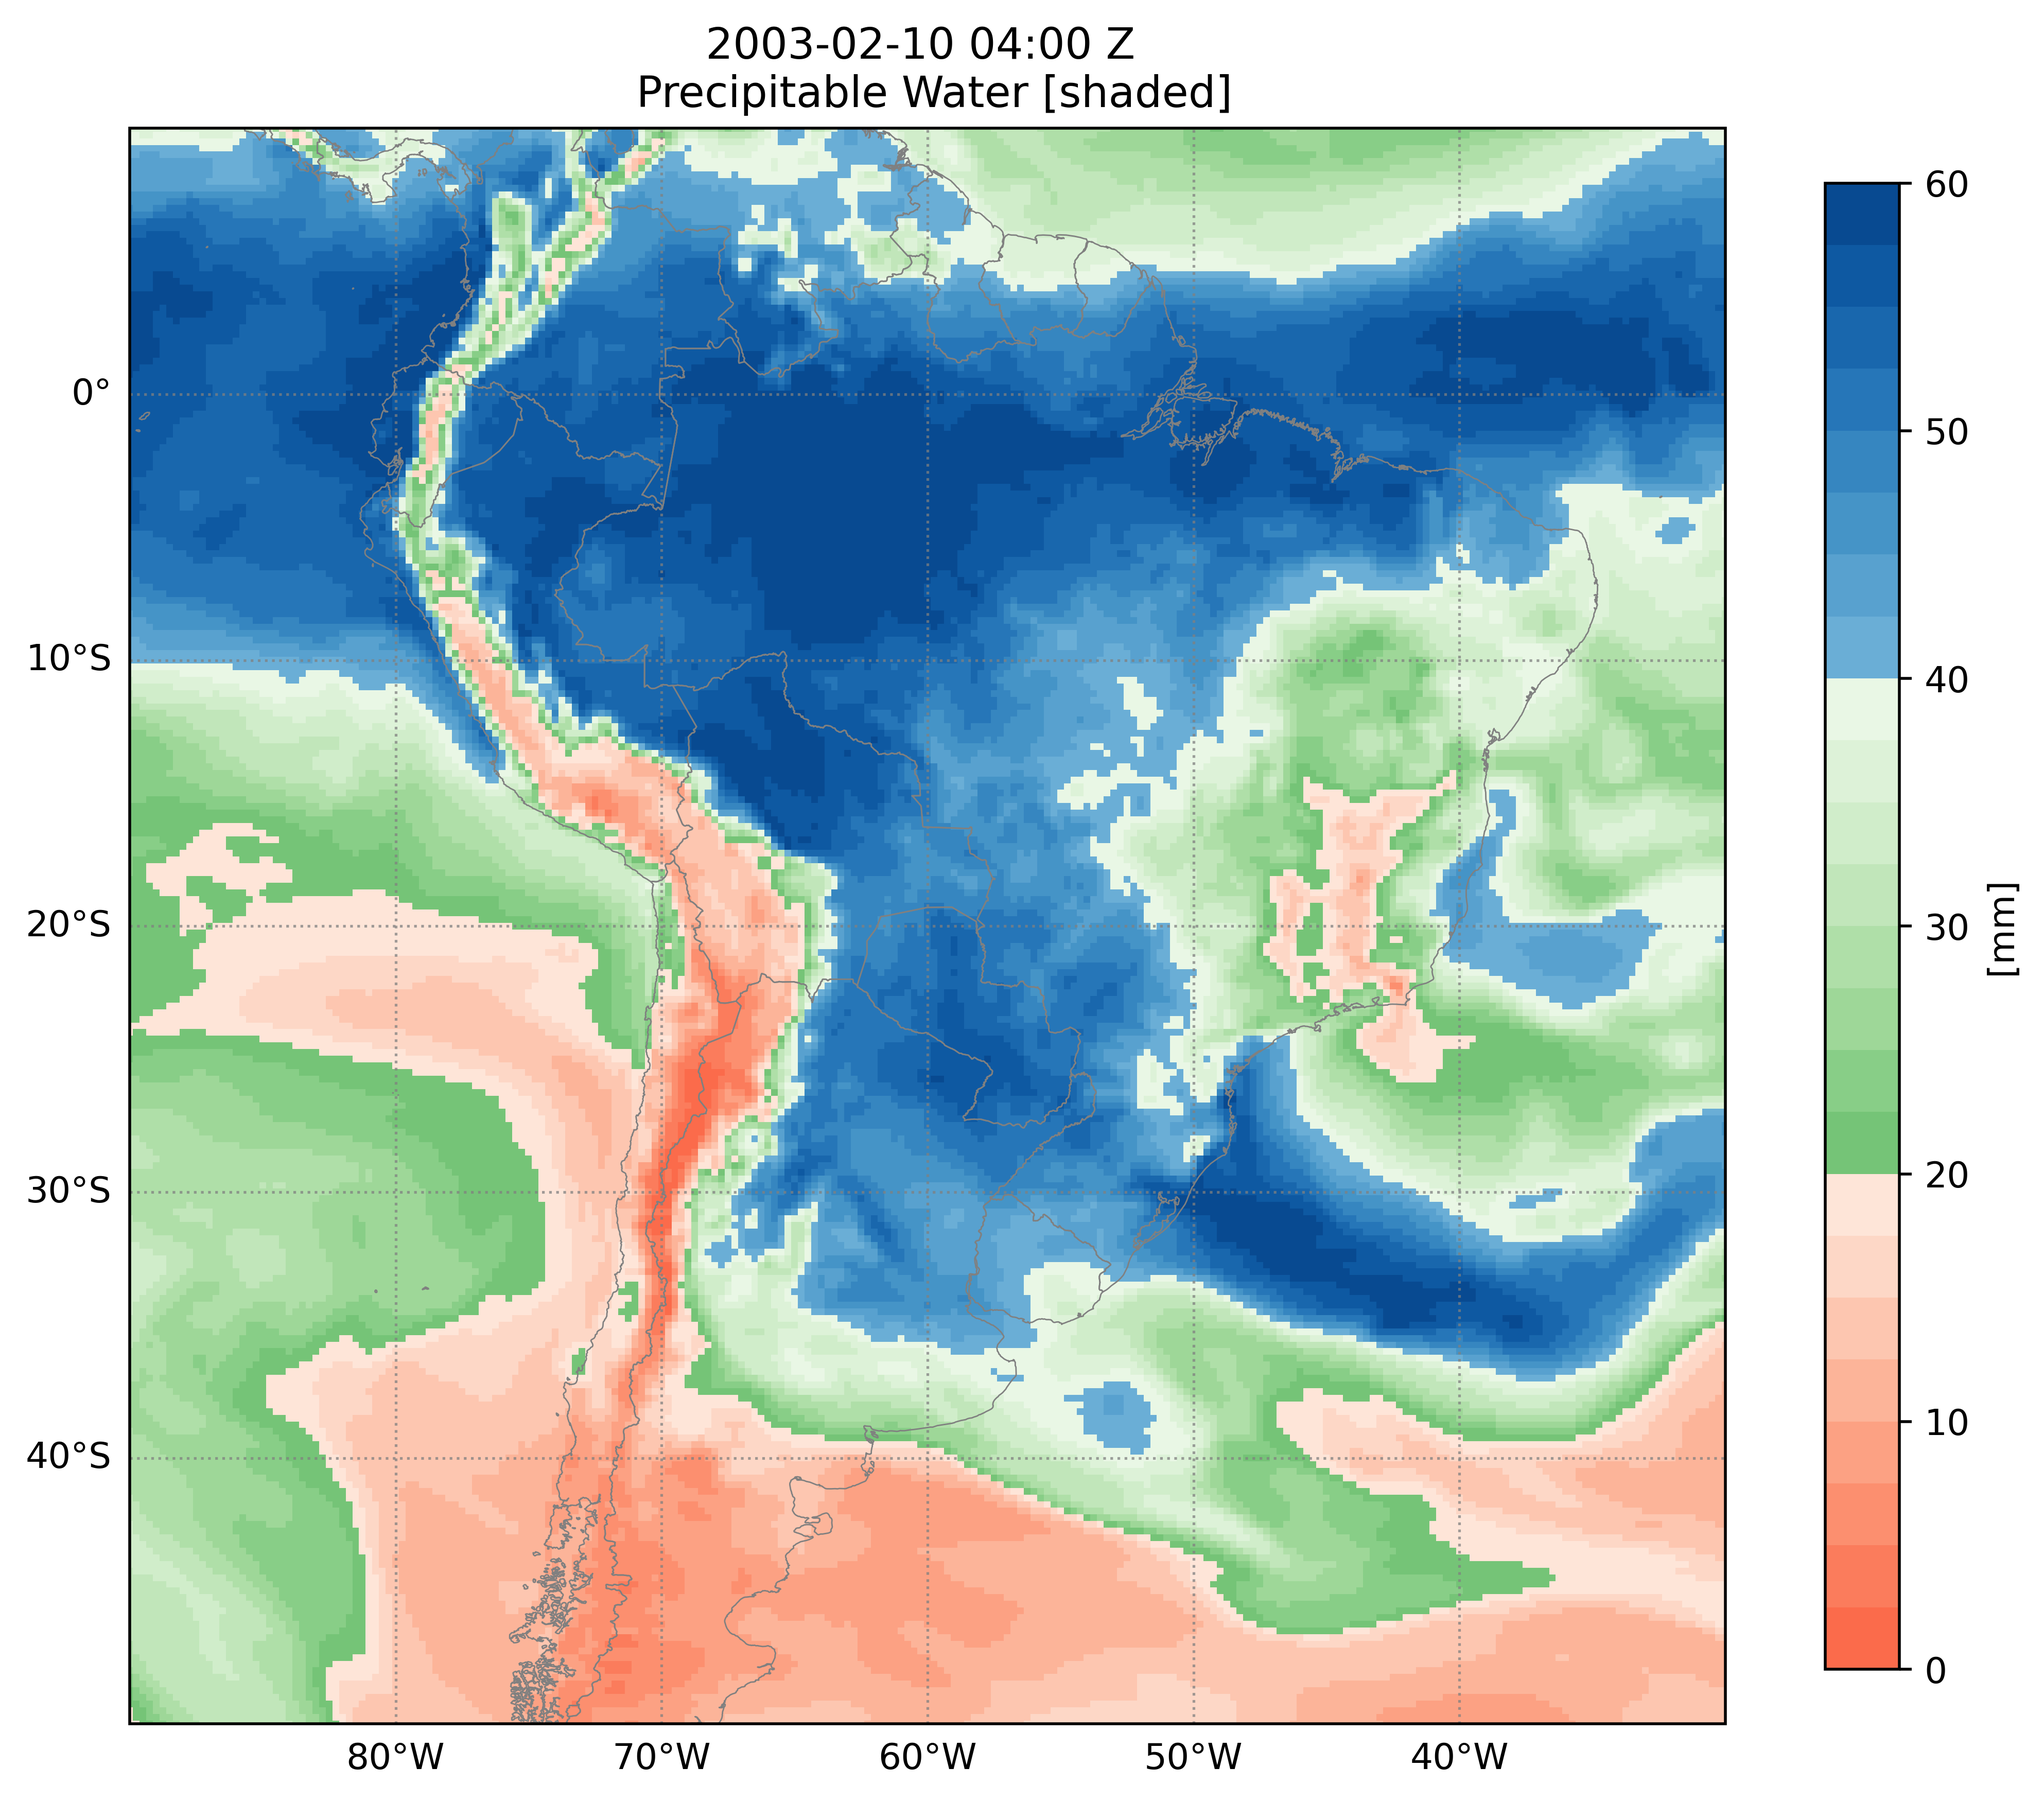
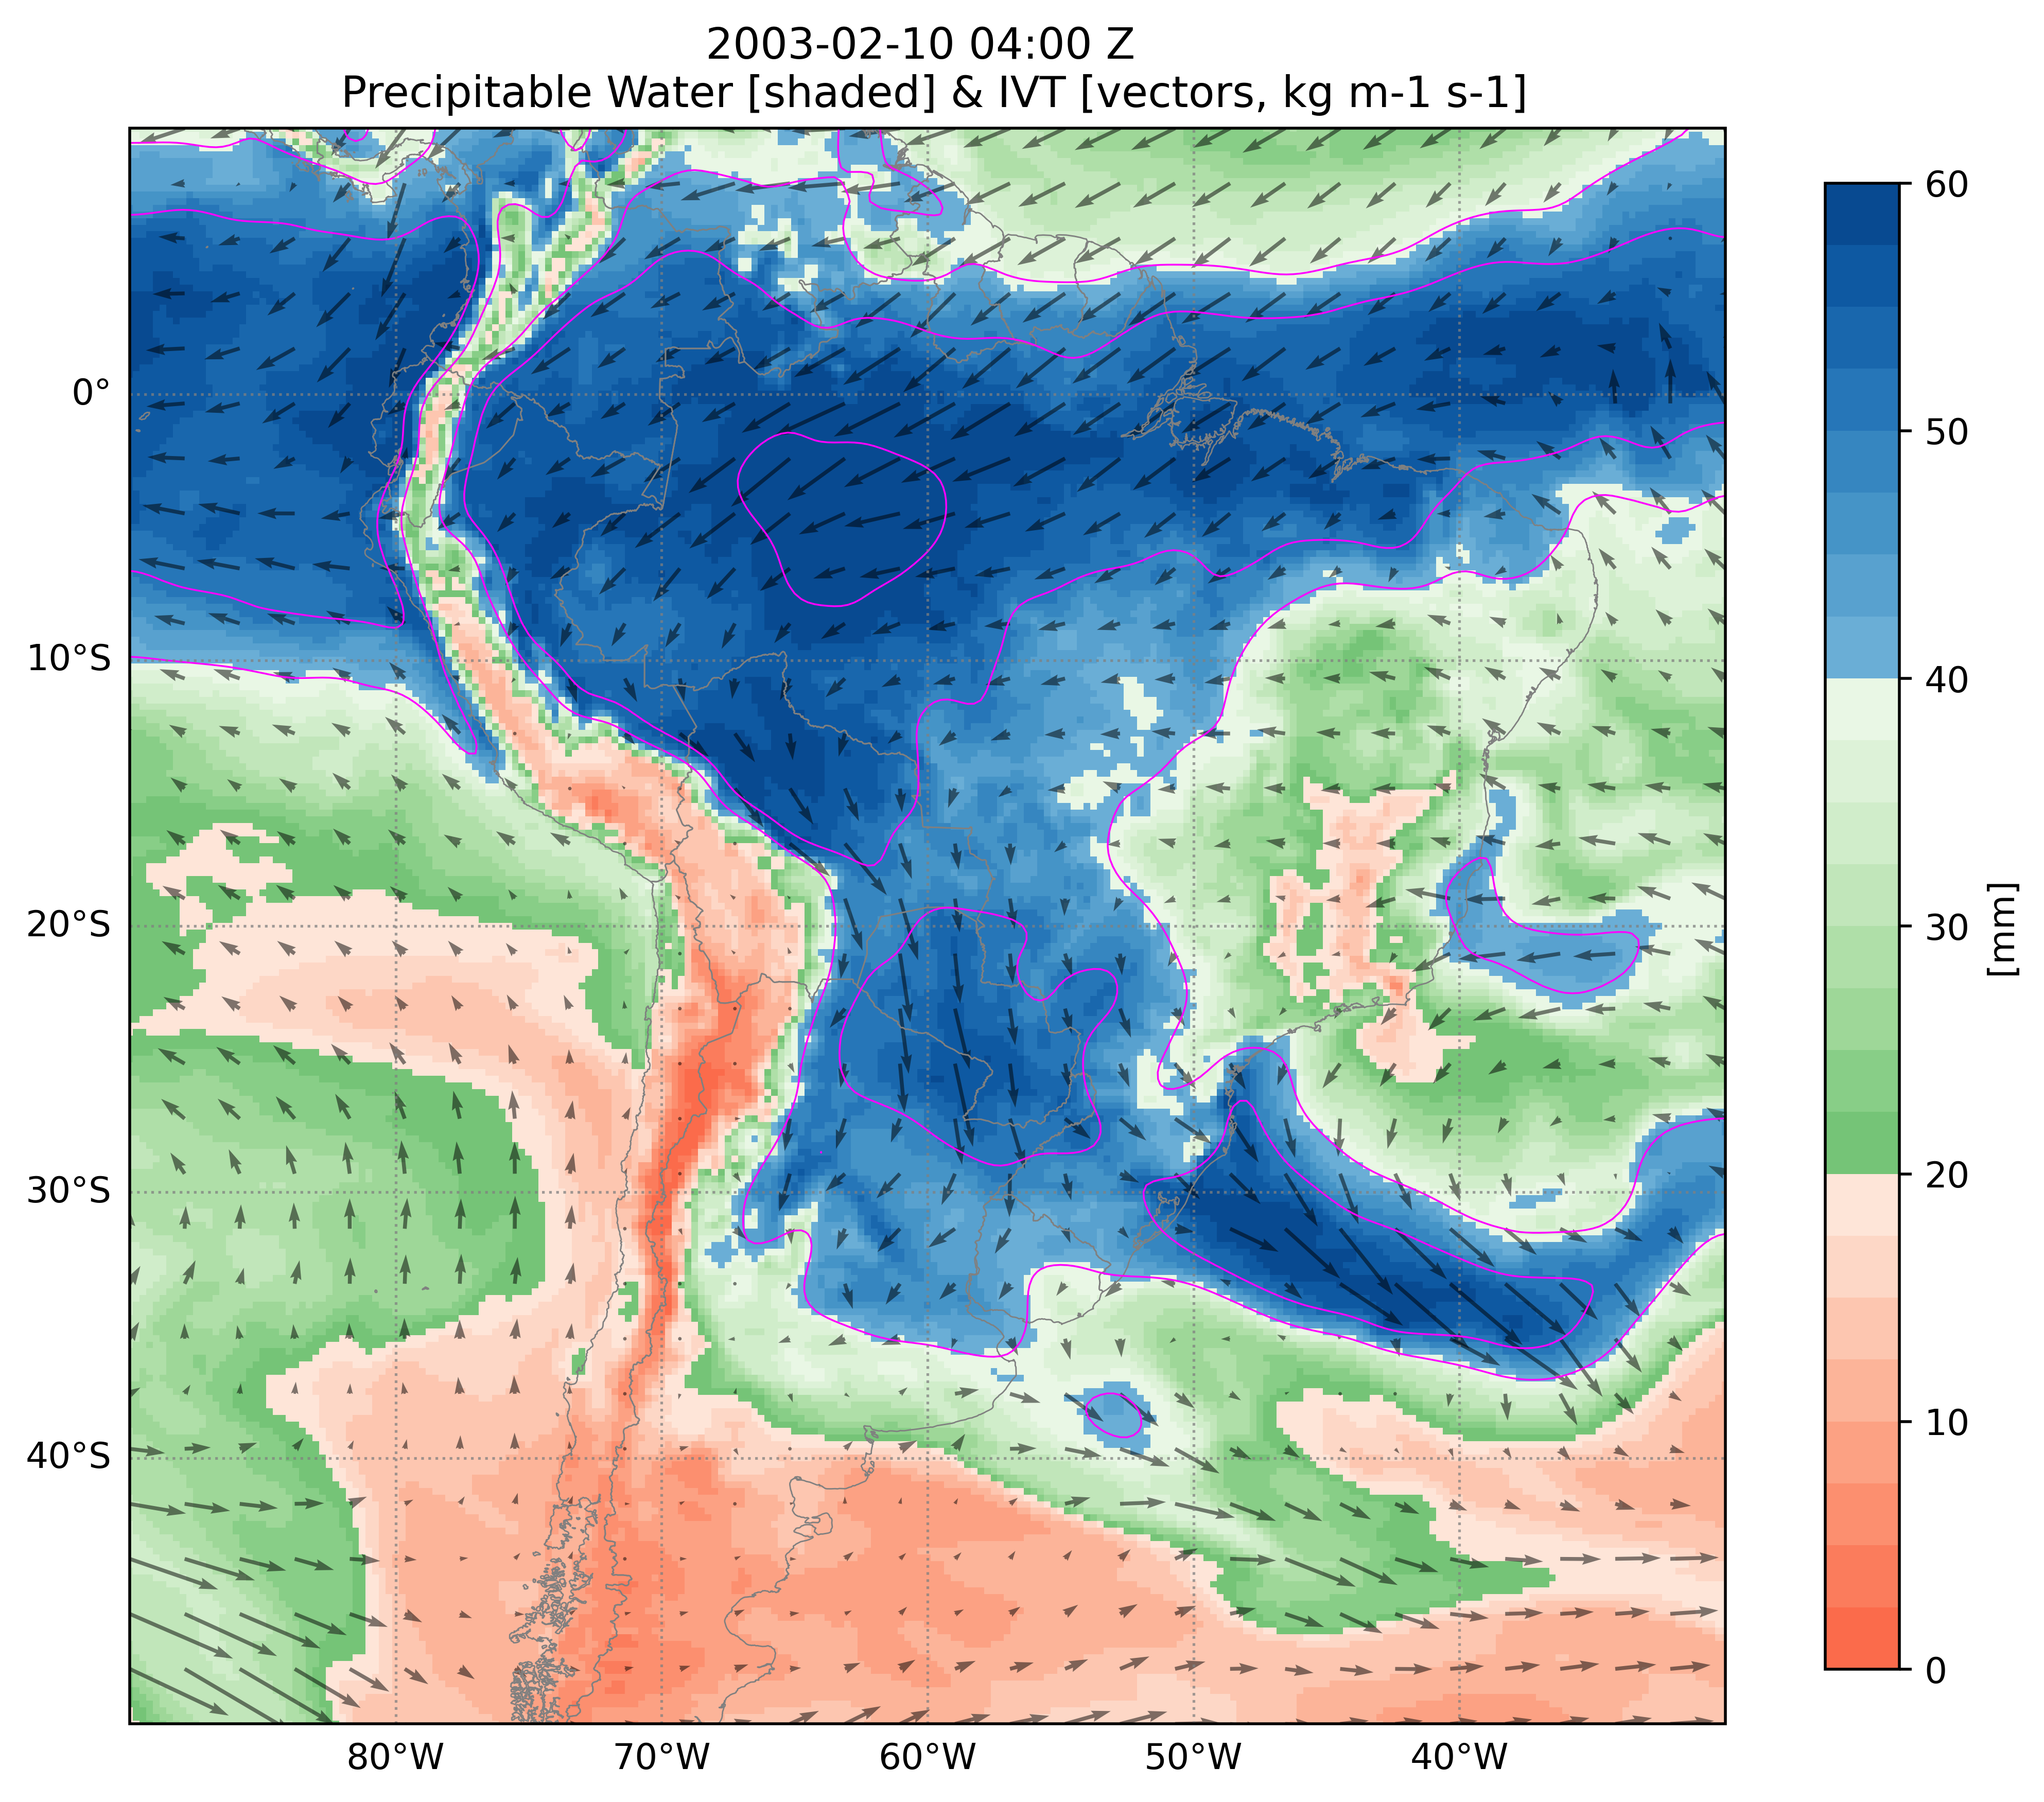
agregue un ejecutador para bajar y graficar casos desde un csv

diff --git a/utils/graficadores.py b/utils/graficadores.py
@@ -17,9 +17,10 @@ countries = cfeature.NaturalEarthFeature(
         scale='10m',
         facecolor='none',edgecolor='gray')
 
+#----------------------------------------
 def graficadorTitae850Viento(year, month, day, hour, pSalida):
 
-    data = xr.open_dataset(f"db/era-5-pressure-level/era-5-pressure-levels-{year}-{month}-{day}-{hour}.nc")
+    data = xr.open_dataset(f"db/era-5-pressure-levels/era-5-pressure-levels-{year}-{month}-{day}-{hour}.nc")
 
     ## calculo de titae
     def titaeEra5(level, temp, q):
@@ -35,10 +36,10 @@ def graficadorTitae850Viento(year, month, day, hour, pSalida):
     )
 
     # parametros graficos
-    transf = transform=ccrs.PlateCarree()
+    transform=ccrs.PlateCarree()
     fig=plt.figure(figsize=(10,10))
-    ax = plt.subplot(1, 1, 1, projection=transf)
-    ax.set_extent([-90, -30, -50, 10], crs=transf)
+    ax = plt.subplot(1, 1, 1, projection=transform)
+    ax.set_extent([-90, -30, -50, 10], crs=transform)
 
     # Agregamos los límites de los países
     ax.add_feature(countries,linewidth=0.4)
@@ -64,10 +65,10 @@ def graficadorTitae850Viento(year, month, day, hour, pSalida):
 
     plt.savefig(f"{pSalida}{year}-{month}-{day}-{hour}-titae-850-viento.png", dpi = 500, bbox_inches = 'tight')
     plt.close("all")
-
+#----------------------------------------
 def graficador500(year, month, day, hour, pSalida):
 
-    data = xr.open_dataset(f"db/era-5-pressure-level/era-5-pressure-levels-{year}-{month}-{day}-{hour}.nc")
+    data = xr.open_dataset(f"db/era-5-pressure-levels/era-5-pressure-levels-{year}-{month}-{day}-{hour}.nc")
 
     # parametros graficos
     transf = transform=ccrs.PlateCarree()
@@ -105,7 +106,7 @@ def graficador500(year, month, day, hour, pSalida):
 
     plt.savefig(f"{pSalida}{year}-{month}-{day}-{hour}-500-hgt.png", dpi = 500, bbox_inches = 'tight')
     plt.close("all")
-
+#----------------------------------------
 def graficadorPwHgt1000(year, month, day, hour, pSalida):
 
     data = xr.open_dataset(f"db/era-5-single-level/era-5-single-level-{year}-{month}-{day}-{hour}.nc")
@@ -119,7 +120,7 @@ def graficadorPwHgt1000(year, month, day, hour, pSalida):
     )
 
     # parametros graficos
-    transf = transform=ccrs.PlateCarree()
+    transf = ccrs.PlateCarree()
     fig=plt.figure(figsize=(10,10))
     ax = plt.subplot(1, 1, 1, projection=transf)
     ax.set_extent([-90, -30, -50, 10], crs=transf)
@@ -127,10 +128,22 @@ def graficadorPwHgt1000(year, month, day, hour, pSalida):
     # Agregamos los límites de los países
     ax.add_feature(countries,linewidth=0.4)
 
-    ## TPE
-    cm = data['tcwv'].plot(ax = ax, transform=transform, vmin = 0, vmax = 60, cmap = cmapPw, add_colorbar = False)
+    ## PW
+    cm = data['tcwv'].plot(ax = ax, transform=transf, vmin = 0, vmax = 60, cmap = cmapPw, add_colorbar = False)
     cb = plt.colorbar(cm, ax = ax, shrink = 0.75)
     cb.set_label("[mm]")
+    
+    ## En contornos la PW mas alta
+    pw = gaussian_filter(data['tcwv'].values[0, :, :], sigma = 3)
+    ax.contour(data['longitude'].values, data['latitude'].values, pw, np.arange(40, 70, 10), colors = ['magenta'], linewidths = 0.5, transform = transf)
+    
+    ## Vector IVT
+    ax.quiver(
+        data["longitude"].values, 
+        data["latitude"].values, 
+        data['p71.162'].values[0, :, :], 
+        data['p72.162'].values[0, :, :], 
+        transform=transf, regrid_shape=30, alpha=0.5)
 
     ## Para los ticks latitudinales y longitudinales
     gl = ax.gridlines(crs=ccrs.PlateCarree(), draw_labels=True,
@@ -141,8 +154,59 @@ def graficadorPwHgt1000(year, month, day, hour, pSalida):
     gl.yformatter = LATITUDE_FORMATTER
 
     ## Titulo
-    ax.set_title(f"{year}-{month}-{day} {hour}:00 Z \n Precipitable Water [shaded]")
+    ax.set_title(f"{year}-{month}-{day} {hour}:00 Z \n Precipitable Water [shaded] & IVT [vectors, kg m-1 s-1]")
 
     plt.savefig(f"{pSalida}{year}-{month}-{day}-{hour}-pw.png", dpi = 500, bbox_inches = 'tight')
     plt.close("all")
+#----------------------------------------
+def graficadorIvtHgt1000(year, month, day, hour, pSalida):
 
+    sfc = xr.open_dataset(f"db/era-5-pressure-levels/era-5-pressure-levels-{year}-{month}-{day}-{hour}.nc")
+    ivt = xr.open_dataset(f"db/era-5-single-level/era-5-single-level-{year}-{month}-{day}-{hour}.nc")
+    
+    cmapIvt = mpl.colors.ListedColormap(
+        [
+            "#ffffff", "#fedb01", "#fda602", "#ed7a05", "#a12424", "#660d08", "#941ddb"
+        ]
+    )
+
+    # parametros graficos
+    transform=ccrs.PlateCarree()
+    fig=plt.figure(figsize=(10,10))
+    ax = plt.subplot(1, 1, 1, projection=transform)
+    ax.set_extent([-90, -30, -50, 10], crs=transform)
+
+    # Agregamos los límites de los países
+    ax.add_feature(countries,linewidth=0.4)
+
+    # IVT sombreado
+    ivtMag = np.sqrt( ivt['p71.162'].values[0, :, :]**2 + ivt['p72.162'].values[0, :, :]**2 )
+    cm = ax.pcolormesh(ivt['longitude'].values, ivt['latitude'].values, ivtMag, vmin = 0, vmax = 1050, cmap = cmapIvt)
+    cb = plt.colorbar(cm, ax = ax, shrink = 0.75, ticks=np.arange(0, 1050+150, 150), extend = 'max')
+    cb.set_label("[kg m-1 s-1]")
+    # Vector IVT
+    ax.quiver(
+        ivt["longitude"].values, 
+        ivt["latitude"].values, 
+        ivt['p71.162'].values[0, :, :], 
+        ivt['p72.162'].values[0, :, :], 
+        transform=transform, regrid_shape=30, alpha=0.5)
+    # hgt 1000 mb
+    clevs_1000_hght = np.arange(-10, 32, 2)
+    damHgt1000 = gaussian_filter(sfc['z'].sel(level=1000).values[0, :, :] / 98.0665, sigma=2.5)
+    cs = ax.contour(sfc['longitude'].values, sfc['latitude'].values, damHgt1000, clevs_1000_hght, colors='black', transform=transform, linewidths = 0.5)
+    plt.clabel(cs, fmt='%d')
+
+    ## Para los ticks latitudinales y longitudinales
+    gl = ax.gridlines(crs=ccrs.PlateCarree(), draw_labels=True,
+                    linewidth=0.75, color='gray', alpha=0.75, linestyle='dotted')
+    gl.top_labels = False
+    gl.right_labels = False
+    gl.xformatter = LONGITUDE_FORMATTER
+    gl.yformatter = LATITUDE_FORMATTER
+
+    ## Titulo
+    ax.set_title(f"{year}-{month}-{day} {hour}:00 Z \n IVT [shaded], IVT [vectors] & HGT 1000 mb [contours, dam]")
+
+    plt.savefig(f"{pSalida}{year}-{month}-{day}-{hour}-ivt-1000.png", dpi = 500, bbox_inches = 'tight')
+    plt.close("all")

diff --git a/utils/download_era5.py b/utils/download_era5.py
@@ -65,14 +65,14 @@ def downloadListDates(pListaFechas, latNorth, latSouth, lonWest, lonEast, pSalid
             "%02d"%fecha.month,
             "%02d"%fecha.day,
             "%02d"%fecha.hour,
-            latNorth, latSouth, lonWest, lonEast, pSalida + "pressure-levels/"
+            latNorth, latSouth, lonWest, lonEast, pSalida + "era-5-pressure-levels/"
         )
         downloadEra5SingleLevel(
             fecha.year,
             "%02d"%fecha.month,
             "%02d"%fecha.day,
             "%02d"%fecha.hour,
-            latNorth, latSouth, lonWest, lonEast, pSalida + "single-level/"
+            latNorth, latSouth, lonWest, lonEast, pSalida + "era-5-single-level/"
         )
 
 

diff --git a/main.py b/main.py
@@ -42,3 +42,12 @@ if (argv[0] == "--graf-pw"):
     else:
         graficadorPwHgt1000(argv[1], argv[2], argv[3], argv[4], argv[5])
 #----------------------------------------
+if (argv[0] == "--graf-hgt-1000-ivt"):
+    if argv[1] == "-l":
+        fechasEventos = pd.read_csv(argv[2])
+        fechasEventos.fechasADescargar = pd.to_datetime(fechasEventos.fechasADescargar)
+        for fecha in fechasEventos.fechasADescargar:
+            graficadorIvtHgt1000(fecha.year, "%02d"%fecha.month, "%02d"%fecha.day, "%02d"%fecha.hour, argv[3])
+    else:
+        graficadorIvtHgt1000(argv[1], argv[2], argv[3], argv[4], argv[5])
+#----------------------------------------

diff --git a/utils/__init__.py b/utils/__init__.py
@@ -1,2 +1,2 @@
 from utils.download_era5 import downloadEra5PressureLevels, downloadEra5SingleLevel, downloadListDates
-from utils.graficadores import graficadorTitae850Viento, graficador500, graficadorPwHgt1000
+from utils.graficadores import graficadorTitae850Viento, graficador500, graficadorPwHgt1000, graficadorIvtHgt1000
